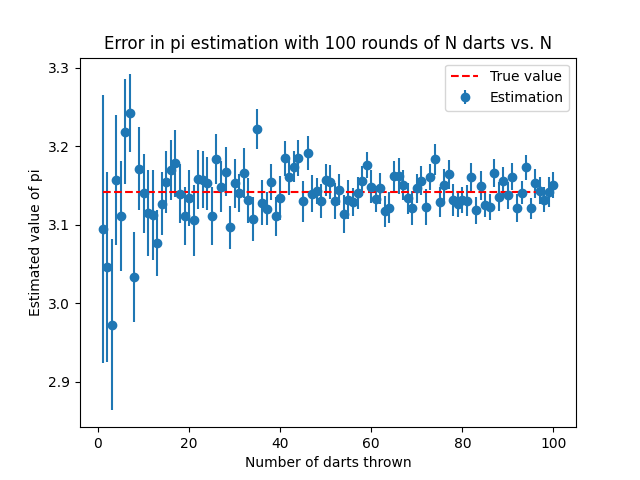
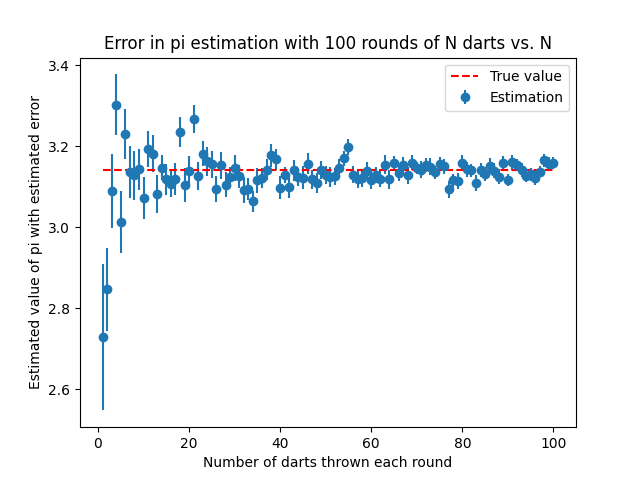
better statistics plot label

diff --git a/pi.py b/pi.py
@@ -17,10 +17,12 @@ def main():
 	else:
 		print("Undefined input")
 
+# Estimate the error of the approximation 
 # N - total number of darts thrown
 # R - radius of circle
 # S - number of rounds for statistics
 # output - output file
+# (Requires python3.6 or greater)
 def stat(N = 100, R = 10, S = 100, output = 'stat.png'):
 	avgs, errs = [0]*N, [0]*N
 
@@ -40,11 +42,12 @@ def stat(N = 100, R = 10, S = 100, output = 'stat.png'):
 	plt.errorbar(np.arange(1,N+1),avgs,yerr=errs, fmt='o', label = 'Estimation')
 	plt.plot(np.arange(1,N+1),[3.14159]*N,'r--', label='True value')
 	plt.legend()
-	plt.xlabel('Number of darts thrown')
-	plt.ylabel('Estimated value of pi')
+	plt.xlabel('Number of darts thrown each round')
+	plt.ylabel('Estimated value of pi with estimated error')
 	plt.savefig(output)
 	print("Output saved in " + output)
 
+# Throw darts, take pictures, make a movie out of it!
 # N - number of darts thrown
 # R - radius of circle
 # output - output movie file
